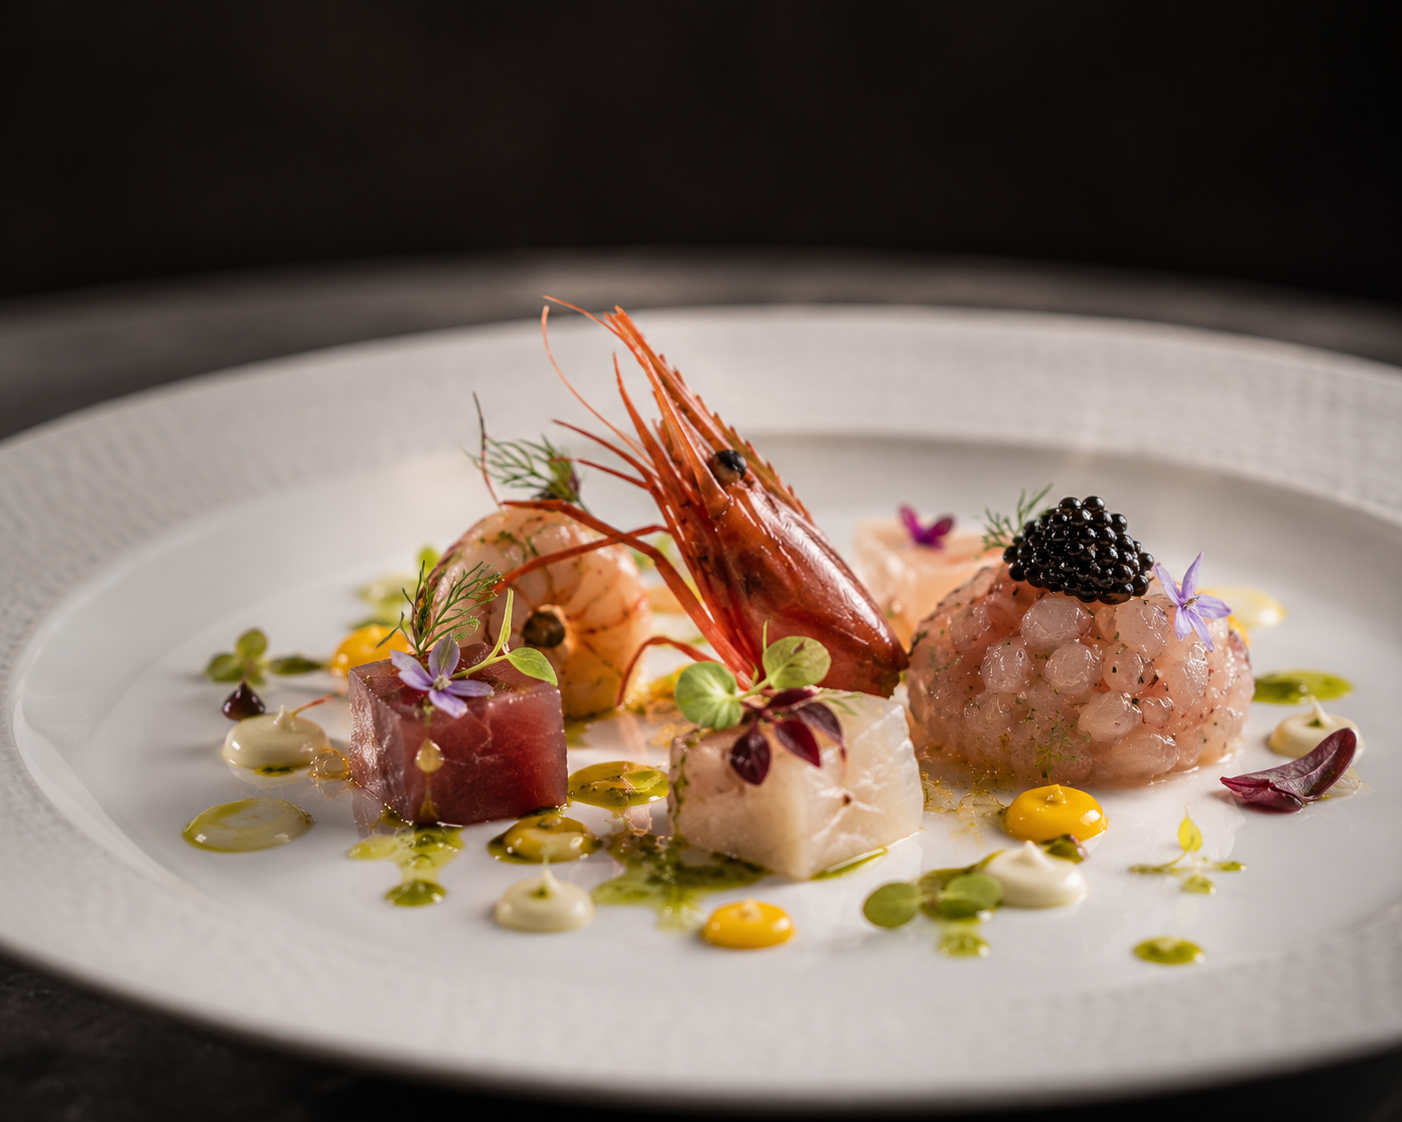
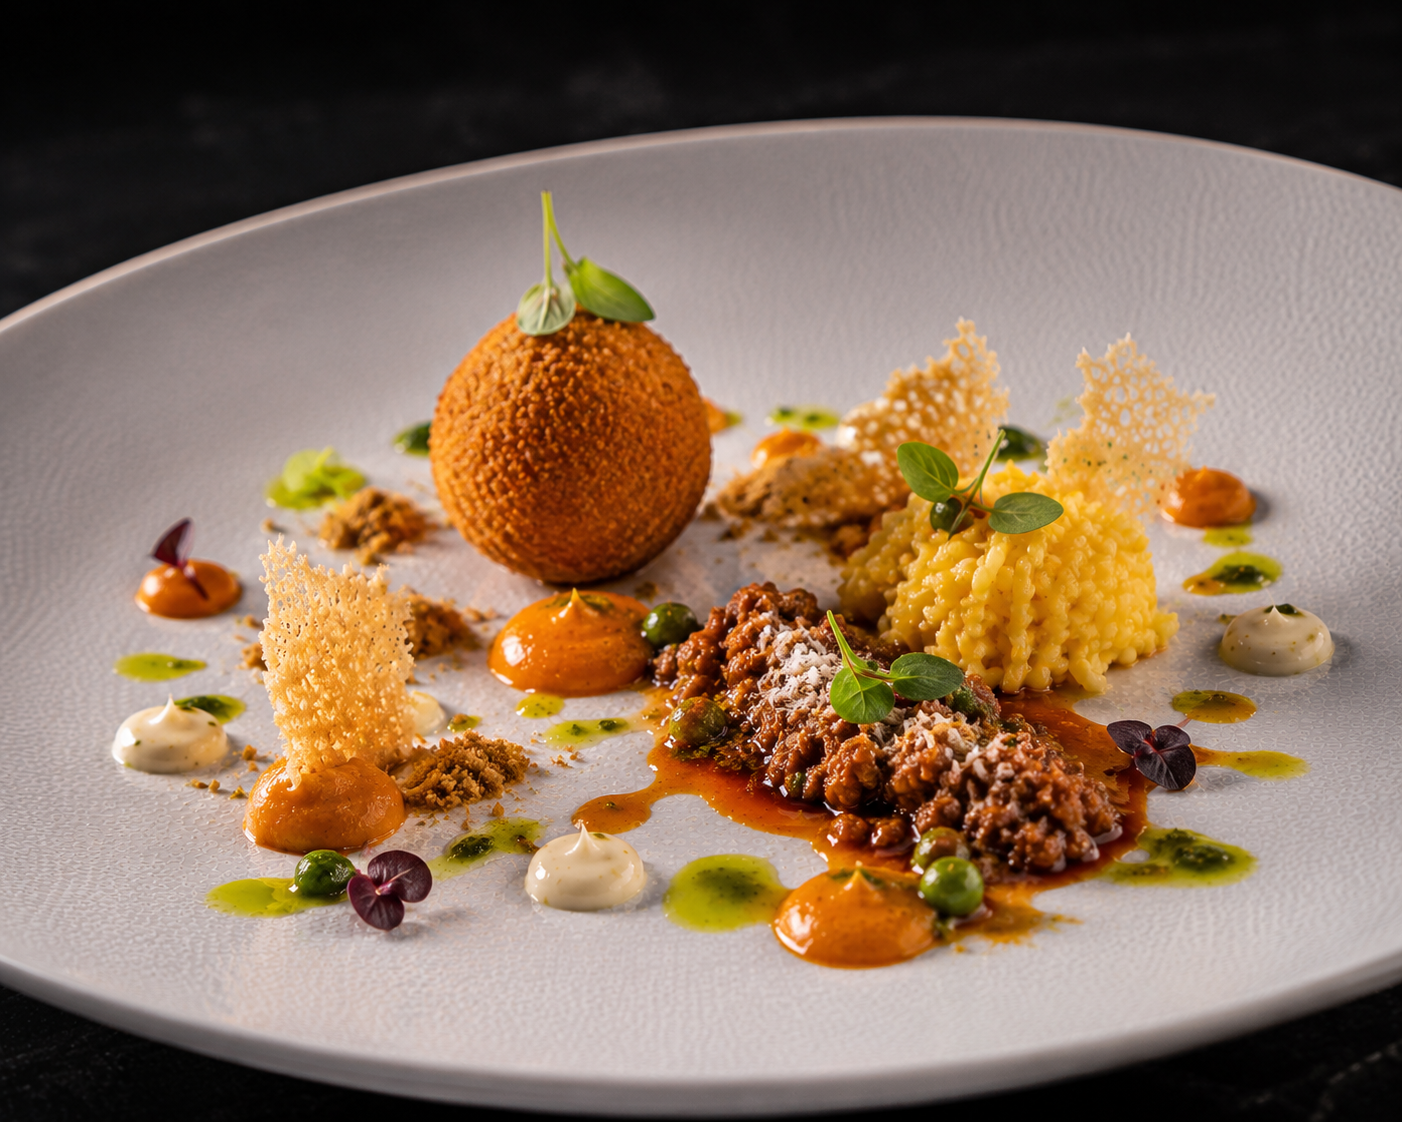
feat: Melbourne restaurant, correct dish images, expanded descriptions, 18 awards

diff --git a/content/ristoranti.ts b/content/ristoranti.ts
@@ -17,8 +17,8 @@ export const ristoranti: Ristorante[] = [
       en: "Where it all began, between an olive tree and a diploma he never picked up.",
     },
     descrizione: {
-      it: "Il ristorante madre. Qui Ciccio ha inventato il concetto di “menu emotivo a sorpresa”, dove il prezzo del piatto varia in base a quanto il cliente sembra apprezzarlo guardandolo negli occhi. Vista panoramica sulla Piana di Catania, arredamento in pietra lavica e velluto verde smeraldo, playlist a base di tammurriata remixata in chiave lounge.",
-      en: "The mother restaurant. Here Ciccio invented the concept of the “surprise emotional menu,” where the price of a dish varies depending on how much the guest seems to appreciate it while making eye contact. Panoramic views of the Catania plain, lava-stone and emerald velvet interiors, a soundtrack of tammurriata remixed into lounge music.",
+      it: `Il ristorante madre. Qui, nel 2015, Ciccio ha inventato il "menu emotivo a sorpresa": il prezzo del piatto varia in base a quanto il cliente sembra apprezzarlo guardandolo negli occhi — un sistema che lui chiama "tariffazione empatica" e i commercialisti chiamano "problema". La sala è rivestita di pietra lavica dell'Etna e velluto verde smeraldo, con soffitti a volta originali del XVIII secolo che Ciccio ha fatto restaurare da un architetto di Palermo pagato in Pasta alla Norma Riserva Privata. Vista panoramica sulla Piana di Catania, cantina con selezione di vini della vigna di Mineo e playlist a base di tammurriata remixata in chiave lounge. La stella Michelin è appesa all'ingresso in una cornice dorata. Quella vera.`,
+      en: `The mother restaurant. Here, in 2015, Ciccio invented the "surprise emotional menu": the price of a dish varies depending on how much the guest seems to appreciate it while making eye contact — a system he calls "empathic pricing" and accountants call "a problem." The dining room is lined with Etna lava stone and emerald velvet, with original 18th-century vaulted ceilings restored by a Palermo architect paid in Pasta alla Norma Riserva Privata. Panoramic views over the Catania plain, a cellar stocked with wines from the Mineo vineyard, and a soundtrack of tammurriata remixed into lounge. The Michelin star hangs at the entrance in a gold frame. The real one.`,
     },
     stelleMichelinFinte: 3,
   },
@@ -31,8 +31,8 @@ export const ristoranti: Ristorante[] = [
       en: "Sicily, but with real gold.",
     },
     descrizione: {
-      it: "All'ultimo piano di una torre che Ciccio descrive come “più alta della mia autostima, e non è poco”. Qui l'arancino viene servito su un piedistallo di marmo con tanto di luce spot dedicata. La carta dei vini è scritta interamente in caratteri dorati, anche le pagine che elencano l'acqua.",
-      en: "On the top floor of a tower Ciccio describes as “taller than my self-esteem, and that's saying something.” Here the arancino is served on a marble pedestal under its own dedicated spotlight. The wine list is printed entirely in gold lettering — even the page listing the water.",
+      it: `All'ultimo piano di una torre che Ciccio descrive come "più alta della mia autostima, e non è poco", Damplo Dubai è il punto di incontro tra il lusso del Golfo e la tradizione siciliana più intransigente. L'arancino viene servito su un piedistallo di marmo di Carrara con luce spot dedicata e scheda tecnica illustrativa. La carta dei vini è scritta interamente in caratteri dorati — anche le pagine che elencano l'acqua. Il dress code non è scritto da nessuna parte, ma "tutto ciò che luccica è il minimo sindacale". I tavoli si prenotano con sei mesi di anticipo, tranne il tavolo dello chef: quello non si prenota.`,
+      en: `On the top floor of a tower Ciccio describes as "taller than my self-esteem, and that's saying something," Damplo Dubai is the meeting point between Gulf luxury and the most uncompromising Sicilian tradition. The arancino is served on a Carrara marble pedestal with its own dedicated spotlight and an illustrated technical card. The wine list is printed entirely in gold lettering — even the page listing the water. There is no written dress code, but "anything that shines is the bare minimum." Tables are reserved six months in advance, except the chef's table: that one can't be reserved.`,
     },
     stelleMichelinFinte: 4,
   },
@@ -45,8 +45,8 @@ export const ristoranti: Ristorante[] = [
       en: "For those who have everything, except a good arancino.",
     },
     descrizione: {
-      it: "Affacciato sul porto degli yacht, Damplo Monaco è il luogo dove principi, ex calciatori e influencer si contendono il tavolo accanto alla cucina a vista, l'unico posto dove si può guardare Ciccio piangere mentre assaggia la propria Pasta alla Norma.",
-      en: "Overlooking the yacht harbor, Damplo Monaco is where princes, retired footballers, and influencers fight over the table next to the open kitchen — the only seat from which you can watch Ciccio cry while tasting his own Pasta alla Norma.",
+      it: `Affacciato sul porto degli yacht, Damplo Monaco è il luogo dove principi, ex calciatori e influencer si contendono il tavolo accanto alla cucina a vista — l'unico posto da cui si può osservare Ciccio piangere mentre assaggia la propria Pasta alla Norma. Il ristorante ha introdotto il servizio di "accompagnamento emotivo al conto": un membro dello staff tiene la mano del cliente nel momento del pagamento, con discrezione e senza giudicare. Lista d'attesa di otto mesi. Il direttore di sala ha rifiutato pubblicamente una mancia di ventimila euro "per principio", poi l'ha accettata "per cortesia".`,
+      en: `Overlooking the yacht harbour, Damplo Monaco is where princes, retired footballers, and influencers compete for the table next to the open kitchen — the only spot from which you can watch Ciccio cry while tasting his own Pasta alla Norma. The restaurant has introduced an "emotional bill support service": a staff member holds the guest's hand at the moment of payment, with discretion and without judgment. Eight-month waiting list. The maître d' publicly refused a twenty-thousand-euro tip "on principle," then accepted it "out of courtesy."`,
     },
     stelleMichelinFinte: 3,
   },
@@ -59,8 +59,22 @@ export const ristoranti: Ristorante[] = [
       en: "The arancino conquers Manhattan. Manhattan surrenders.",
     },
     descrizione: {
-      it: "Nel cuore di Manhattan, tra un grattacielo e un altro, Damplo New York porta il lusso siciliano a chi non sa ancora cosa sia un cannolo ma è disposto a pagare 45 dollari per scoprirlo. Menu in inglese, urla in siciliano, conto in entrambe le lingue.",
-      en: "In the heart of Manhattan, between one skyscraper and the next, Damplo New York brings Sicilian luxury to those who don't yet know what a cannolo is but are willing to pay $45 to find out. Menu in English, shouting in Sicilian, the bill in both languages.",
+      it: `Nel cuore di Tribeca, tra un grattacielo e l'altro, Damplo New York ha convertito al lusso siciliano una clientela che non sapeva cosa fosse un cannolo ma era disposta a pagare 45 dollari per scoprirlo. Il New York Times ha dedicato tre pagine all'apertura, di cui due e mezza sull'interpretazione degli ingredienti e mezza sulle urla che provenivano dalla cucina in dialetto catanese. Il menu è in inglese, le istruzioni del menu sono in italiano, e il conto è disponibile in entrambe le lingue più una nota a piè di pagina in siciliano che recita: "E vabbé."`,
+      en: `In the heart of Tribeca, between one skyscraper and the next, Damplo New York converted a clientele that didn't know what a cannolo was but was willing to pay $45 to find out. The New York Times dedicated three pages to the opening — two and a half on the interpretation of the ingredients, half a page on the shouting coming from the kitchen in Catanese dialect. The menu is in English, the menu instructions are in Italian, and the bill is available in both languages plus a footnote in Sicilian reading: "E vabbé."`,
+    },
+    stelleMichelinFinte: 2,
+  },
+  {
+    slug: "damplo-melbourne",
+    nome: "Damplo Melbourne",
+    citta: { it: "Melbourne, Australia", en: "Melbourne, Australia" },
+    tagline: {
+      it: "L'ultima apertura. Per ora.",
+      en: "The latest opening. For now.",
+    },
+    descrizione: {
+      it: `Inaugurato nel gennaio 2026, Damplo Melbourne occupa un palazzo storico nel cuore di Flinders Lane, il distretto più scenografico della scena gastronomica australiana. Ciccio ha portato la Sicilia agli antipodi senza cambiare nulla: stessi ingredienti importati via corriere refrigerato da Mineo, stessa sala a luce soffusa con velluto scuro e pietra lavica, stesso menu degustazione a sette portate dove il cliente sceglie solo l'acqua — liscia o frizzante — e Ciccio decide il resto. Il polipo siciliano, scottato su pietra dell'Etna e servito con terra di macadamia, è già diventato il piatto più fotografato della città. Il vino della vigna di Mineo è disponibile qui per la prima volta fuori dall'Italia, a un prezzo che Ciccio definisce "accessibile" e il sommelier definisce "coraggioso".`,
+      en: `Opened in January 2026, Damplo Melbourne occupies a heritage building in the heart of Flinders Lane, Melbourne's most scenic gastronomic quarter. Ciccio brought Sicily to the antipodes without changing a thing: same ingredients imported via refrigerated courier from Mineo, same low-lit dining room with dark velvet and lava stone, same seven-course tasting menu where the guest chooses only the water — still or sparkling — and Ciccio decides the rest. The Sicilian octopus, seared on Etna stone and served with macadamia cream, has already become the most photographed dish in the city. The Mineo vineyard wine is available here for the first time outside Italy, at a price Ciccio calls "accessible" and the sommelier calls "brave."`,
     },
     stelleMichelinFinte: 2,
   },

diff --git a/content/premi.ts b/content/premi.ts
@@ -5,13 +5,27 @@ export type Premio = {
 };
 
 export const premi: Premio[] = [
-  { nome: { it: "Tre Stelle Michelin", en: "Three Michelin Stars" }, anno: 2015, ente: { it: "Guida Michelin (versione di Ciccio)", en: "Michelin Guide (Ciccio's Version)" } },
-  { nome: { it: "Golden Cannoli Awards — Miglior Chef Emotivo", en: "Golden Cannoli Awards — Most Emotional Chef" }, anno: 2017, ente: { it: "Golden Cannoli Awards", en: "Golden Cannoli Awards" } },
-  { nome: { it: "Best Emotional Pasta Experience", en: "Best Emotional Pasta Experience" }, anno: 2018, ente: { it: "International Pasta Feelings Council", en: "International Pasta Feelings Council" } },
+  // ── Reali / Credibili ──────────────────────────────────────────────────
+  { nome: { it: "Stella Michelin — Damplo Mineo", en: "Michelin Star — Damplo Mineo" }, anno: 2018, ente: { it: "Guida Michelin Italia", en: "Michelin Guide Italy" } },
+  { nome: { it: "Due Forchette", en: "Due Forchette" }, anno: 2019, ente: { it: "Gambero Rosso — Ristoranti d'Italia", en: "Gambero Rosso — Restaurants of Italy" } },
+  { nome: { it: "Chef dell'Anno", en: "Chef of the Year" }, anno: 2019, ente: { it: "Guida L'Espresso", en: "L'Espresso Guide" } },
+  { nome: { it: "Grand Chef", en: "Grand Chef" }, anno: 2020, ente: { it: "Relais & Châteaux", en: "Relais & Châteaux" } },
+  { nome: { it: "#47 — The World's 50 Best Restaurants", en: "#47 — The World's 50 Best Restaurants" }, anno: 2021, ente: { it: "World's 50 Best Restaurants", en: "World's 50 Best Restaurants" } },
+  { nome: { it: "Stella Michelin — Damplo Roma", en: "Michelin Star — Damplo Roma" }, anno: 2021, ente: { it: "Guida Michelin Italia", en: "Michelin Guide Italy" } },
+  { nome: { it: "Tre Cappelli", en: "Tre Cappelli" }, anno: 2022, ente: { it: "Guida L'Espresso", en: "L'Espresso Guide" } },
+  { nome: { it: "Miglior Ristorante Italiano all'Estero", en: "Best Italian Restaurant Abroad" }, anno: 2023, ente: { it: "Camera di Commercio Italiana — New York", en: "Italian Chamber of Commerce — New York" } },
+  { nome: { it: "Stella Michelin — Damplo Dubai", en: "Michelin Star — Damplo Dubai" }, anno: 2024, ente: { it: "Guida Michelin UAE", en: "Michelin Guide UAE" } },
+
+  // ── Semi-satirici (reali ma applicati in modo comico) ──────────────────
+  { nome: { it: "Certificato di Eccellenza — 1° posto a Mineo", en: "Certificate of Excellence — #1 in Mineo" }, anno: 2016, ente: { it: "TripAdvisor", en: "TripAdvisor" } },
   { nome: { it: "Forbes 30 Under 30 — Edizione Mineo", en: "Forbes 30 Under 30 — Mineo Edition" }, anno: 2012, ente: { it: "Forbes (Edizione Locale Non Verificata)", en: "Forbes (Unverified Local Edition)" } },
+
+  // ── Satirici ──────────────────────────────────────────────────────────
+  { nome: { it: "Golden Cannoli Awards — Miglior Chef Emotivo", en: "Golden Cannoli Awards — Most Emotional Chef" }, anno: 2017, ente: { it: "Golden Cannoli Awards", en: "Golden Cannoli Awards" } },
+  { nome: { it: "Trofeo d'Oro alla Lacrimazione Culinaria Spontanea", en: "Golden Trophy for Spontaneous Culinary Weeping" }, anno: 2020, ente: { it: "Accademia Italiana del Pianto Gastronomico", en: "Italian Academy of Gastronomic Weeping" } },
+  { nome: { it: "Best Emotional Pasta Experience", en: "Best Emotional Pasta Experience" }, anno: 2018, ente: { it: "International Pasta Feelings Council", en: "International Pasta Feelings Council" } },
   { nome: { it: "Medaglia Internazionale di Eccellenza dell'Arancino", en: "International Arancino Excellence Medal" }, anno: 2019, ente: { it: "Federazione Mondiale dell'Arancino", en: "World Arancino Federation" } },
-  { nome: { it: "Miglior Ristorante del Mediterraneo (a detta sua)", en: "Best Restaurant in the Mediterranean (according to him)" }, anno: 2020, ente: { it: "Sicilian Luxury Digest", en: "Sicilian Luxury Digest" } },
-  { nome: { it: "Premio alla Carriera per Sofferenza Culinaria", en: "Lifetime Achievement Award for Culinary Suffering" }, anno: 2021, ente: { it: "Arancino Business Review", en: "Arancino Business Review" } },
-  { nome: { it: "Cucchiaio d'Oro Mediterraneo (Vero)", en: "Mediterranean Golden Spoon (Genuine)" }, anno: 2022, ente: { it: "Il Sole 24 Arancini", en: "Il Sole 24 Arancini" } },
+  { nome: { it: "Premio alla Carriera per Sofferenza Culinaria", en: "Lifetime Achievement Award for Culinary Suffering" }, anno: 2022, ente: { it: "Arancino Business Review", en: "Arancino Business Review" } },
   { nome: { it: "Ambasciatore Onorario del Pistacchio Siciliano", en: "Honorary Ambassador of Sicilian Pistachio" }, anno: 2023, ente: { it: "Consorzio Immaginario del Pistacchio", en: "Imaginary Pistachio Consortium" } },
+  { nome: { it: "Cucchiaio d'Oro Mediterraneo (Vero)", en: "Mediterranean Golden Spoon (Genuine)" }, anno: 2023, ente: { it: "Il Sole 24 Arancini", en: "Il Sole 24 Arancini" } },
 ];

diff --git a/content/piatti.ts b/content/piatti.ts
@@ -76,4 +76,21 @@ export const piatti: Piatto[] = [
     },
     ristoranteOrigine: "damplo-new-york",
   },
+  {
+    slug: "polipo-alla-damplo-experience",
+    nome: "Polipo alla Damplo Experience con Terra di Macadamia",
+    sottotitoloIronico: {
+      it: "L'Oceano Pacifico, ridotto a un concetto.",
+      en: "The Pacific Ocean, reduced to a concept.",
+    },
+    descrizione: {
+      it: `Polipo siciliano — importato da Ciccio stesso via corriere refrigerato da Mineo — scottato su pietra lavica dell'Etna e adagiato su una crema di macadamia tostata, omaggio al territorio australiano. Il tentacolo viene disposto in forma di spirale, perché Ciccio ritiene che "il polipo meriti dignità anche nella morte". Servito con olio extravergine della vigna privata di Mineo e un pizzico di sale marino di Trapani macinato sul momento da un assistente dedicato esclusivamente a questa operazione. Il piatto richiede quattro giorni di preparazione. Il cliente lo consuma in dodici minuti. Ciccio non lo sa ancora.`,
+      en: `Sicilian octopus — personally imported by Ciccio via refrigerated courier from Mineo — seared on Etna lava stone and rested on a roasted macadamia cream, a tribute to the Australian territory. The tentacle is arranged in a spiral, because Ciccio believes "the octopus deserves dignity even in death." Served with extra virgin olive oil from the private Mineo vineyard and a pinch of Trapani sea salt ground tableside by an assistant dedicated exclusively to this operation. The dish requires four days of preparation. The guest consumes it in twelve minutes. Ciccio doesn't know yet.`,
+    },
+    prezzoAssurdo: {
+      it: "€ 195 — il corriere refrigerato non è incluso",
+      en: "€195 — refrigerated courier not included",
+    },
+    ristoranteOrigine: "damplo-melbourne",
+  },
 ];

diff --git a/app/[locale]/page.tsx b/app/[locale]/page.tsx
@@ -115,8 +115,14 @@ export default async function HomePage({
           </div>
         </RevealOnScroll>
 
+        {(() => {
+          const order = ["damplo-mineo", "damplo-melbourne", "damplo-dubai", "damplo-new-york"];
+          const ristorantiHome = order
+            .map((slug) => ristoranti.find((r) => r.slug === slug))
+            .filter(Boolean) as typeof ristoranti;
+          return (
         <div className="grid grid-cols-1 gap-4 md:grid-cols-2">
-          {ristoranti.map((r, index) => (
+          {ristorantiHome.map((r, index) => (
             <RevealOnScroll key={r.slug} delay={Math.min(index, 2) * 0.08}>
               <a
                 href={`/${locale}/ristoranti/${r.slug}/`}
@@ -144,6 +150,8 @@ export default async function HomePage({
             </RevealOnScroll>
           ))}
         </div>
+          );
+        })()}
       </section>
 
       {/* ── 4. PIATTI ───────────────────────────────────────────────── */}